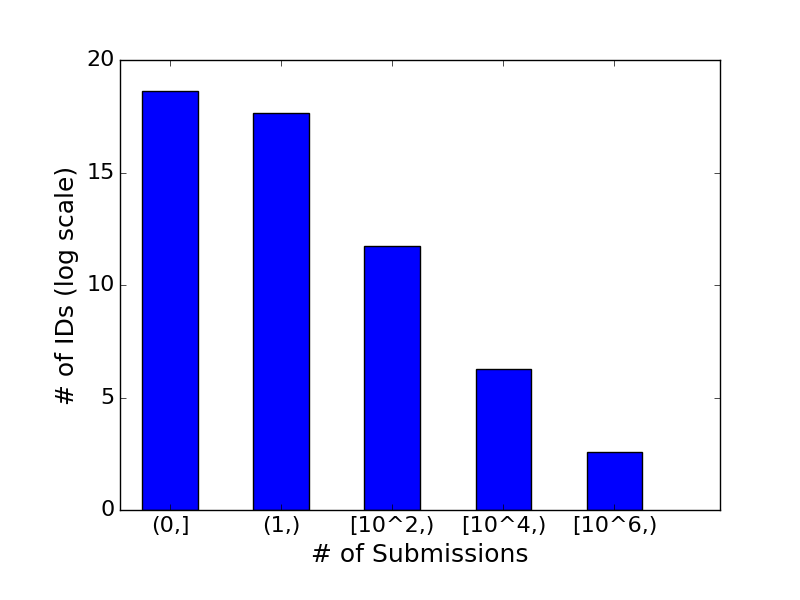
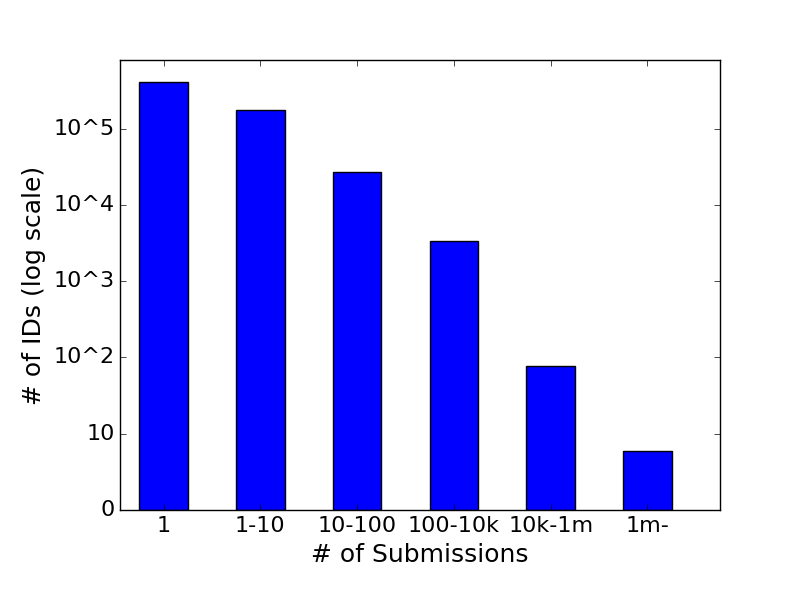
addressing section 2

diff --git a/eurosys2017/section/1_meth.tex b/eurosys2017/section/1_meth.tex
@@ -110,8 +110,8 @@ Thus, we use the number of submissions to measure what type of users a source ID
 
 We seperate the number of submissions into six categories:
 one submission, one to ten submissions, ten to 100 submissions, 100 to 10000 submissions, 10000 to 1 million submissions, and larger than 1 million submissions.
-Figure~\ref{figure/IDDistribution} plots the number of source IDs in log scale in the first five categories.
-\yiying{change figure X axis to 1 1-10 10-100 100-10K 10K-1Mil and change Y axis label to 0 10\^5 10\^10 etc.}
+Figure~\ref{fig:iddis} plots the number of source IDs in log scale in the first five categories.
+%\yiying{change figure X axis to 1 1-10 10-100 100-10K 10K-1Mil and change Y axis label to 0 10\^5 10\^10 etc.}
 There are only 6 source IDs that have more than 1 million submissions and we suspect that these IDs are either bogus or robots 
 that constantly make submissions to \vt.
 For the rest, we find that the number of source IDs dramatically drops when the number of submissions is more than 100.
@@ -158,6 +158,8 @@ Interestingly, overall most submissions to \vt\ are likely to be benign files, \
 Around half of the submissions were labeled as benign by all engines (a detection rate of zero),
 and only 31.5\% submissions were labeled as malware by at least half of the engines.
 Surprisingly, the detection rates of submissions made by normal user and by anti-virus vendors are very similar.
+{\color{red}We think that all vendors’ suspicious files actually come from their users, 
+or all malicious files encountered by users will eventually come to all anti-virus vendors’ hand. }
 \yiying{any guess why?}
 
 \if 0
